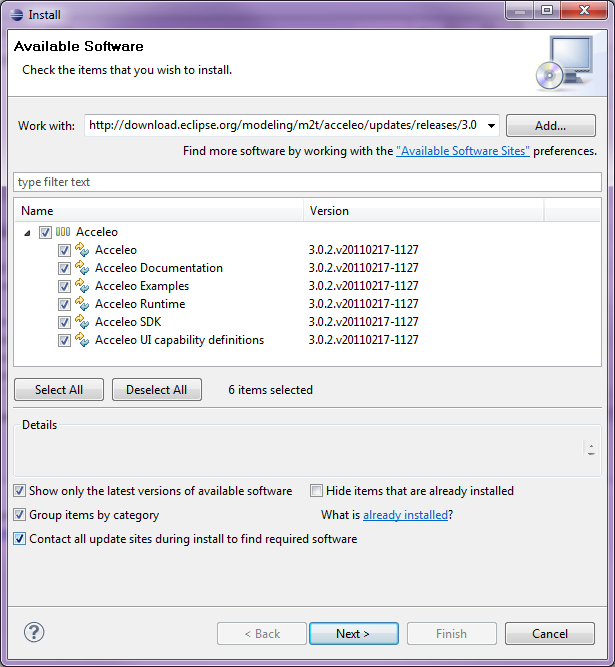
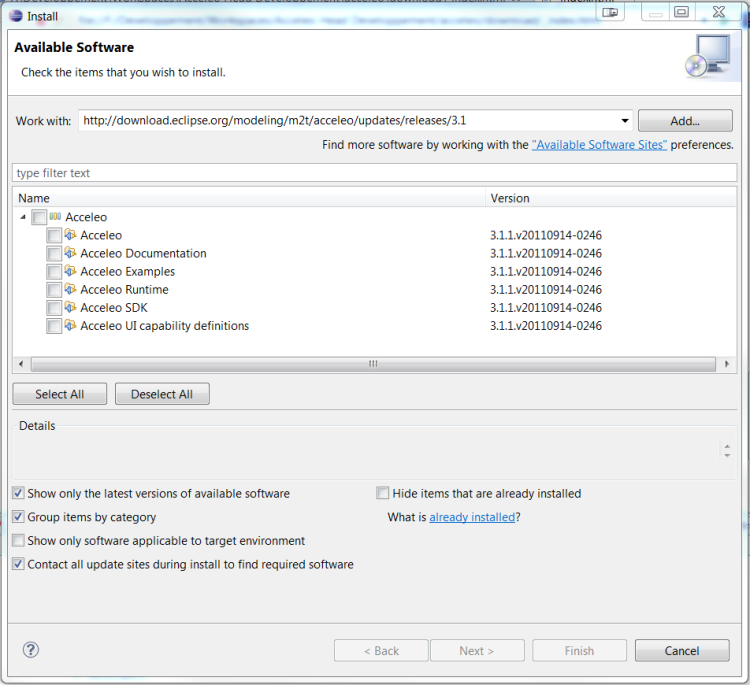
Improved Acceleo update site link.

Changed region(s): [[0.0, 0.0, 1.0, 1.0]]

diff --git a/download/_index.html b/download/_index.html
@@ -60,9 +60,12 @@
 				<img src="../images/install_1.png" alt="Install New Software..."/>
 			</li>
 			<li>
-				In the upper part, click <i>Add</i> and type in the location<br/>
-				<b><i>http://download.eclipse.org/modeling/m2t/acceleo/updates/releases/3.1</i></b>
-				(old releases can be found with this update site instead : <i>http://download.eclipse.org/modeling/m2t/acceleo/updates/releases/3.0</i>)
+				In the upper part, click <i>Add</i> and type in the location:<br/>
+				<ul>
+					<li>For the latest release: <b>http://download.eclipse.org/modeling/m2t/acceleo/updates/releases/3.1</b></li>
+					<li>For the Acceleo 3.1.x branch: http://download.eclipse.org/modeling/m2t/acceleo/updates/releases/3.1</li>
+					<li>For the Acceleo 3.0.x branch: http://download.eclipse.org/modeling/m2t/acceleo/updates/releases/3.0</li>
+				</ul>
 			</li>
 			<li>
 				Select this new update site in the combo box and tick <i>Acceleo</i> in the lower
